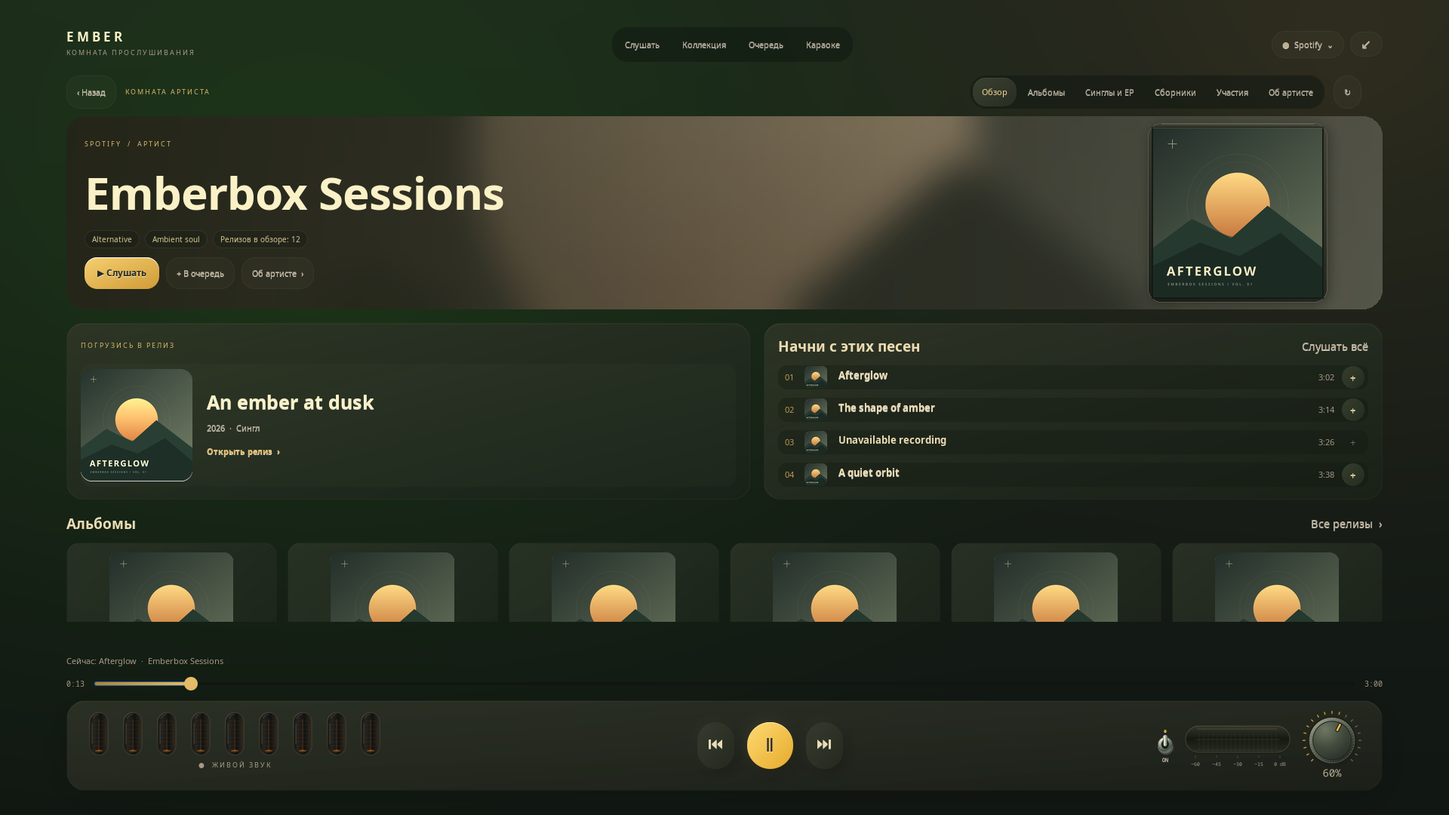
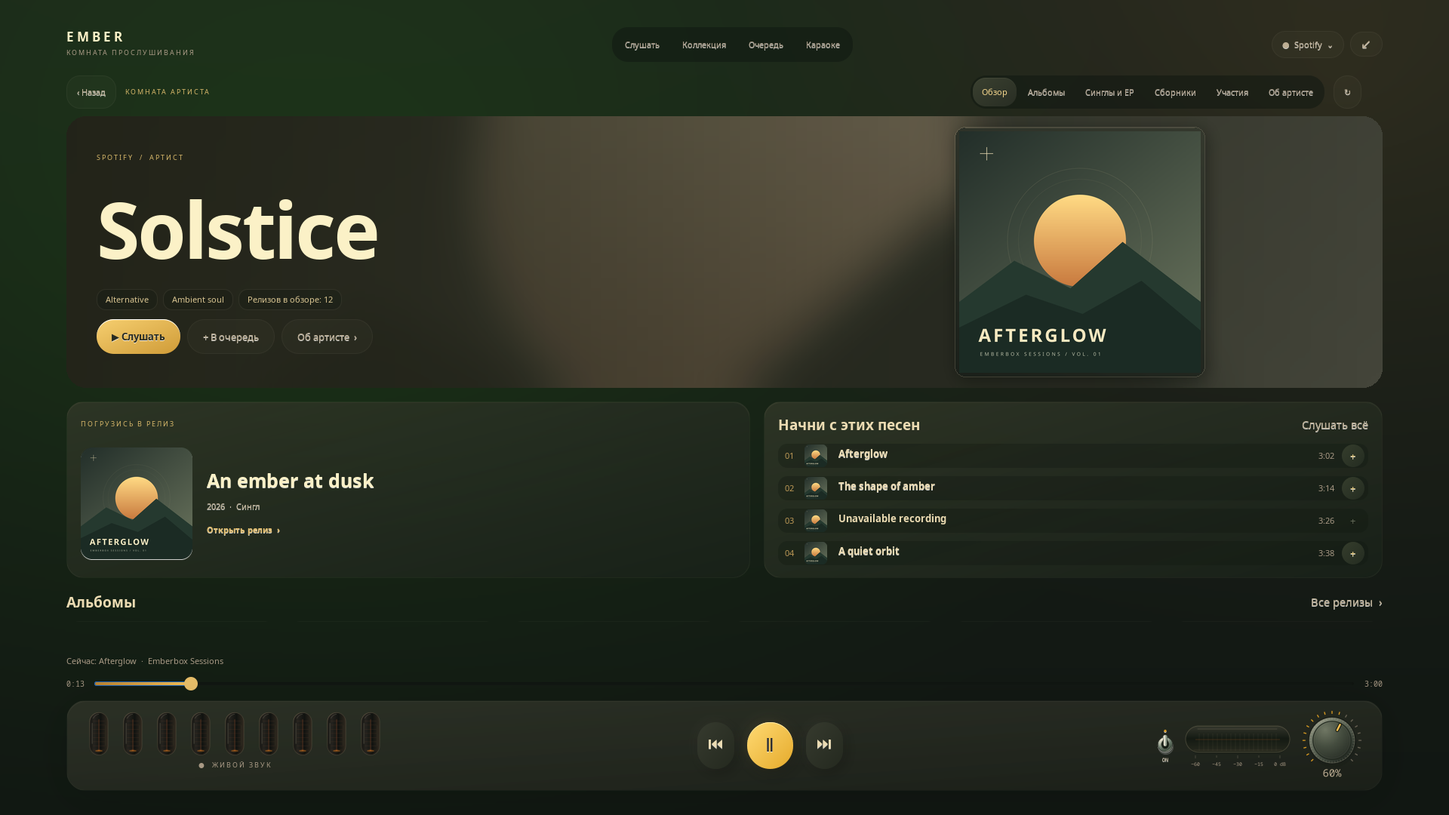
design: give artist portraits a large gallery masthead and poster typography

diff --git a/tests/artist_smoke.py b/tests/artist_smoke.py
@@ -9,6 +9,7 @@ from unittest.mock import patch
 import fullscreen_smoke as f
 import fullscreen
 from source_picker import text
+from artist_header import portrait_rect
 from gi.repository import Gdk,Gtk
 
 tracks=[{'id':str(i),'uri':'spotify:track:'+str(i),'title':name,'artist':'Emberbox Sessions',
@@ -37,7 +38,8 @@ def load(source,category,term='',collection=None,offset=0):
         if ref.get('id')!='SPARSE':
             sections.extend(({'id':'top-songs','items':tracks[:4]}, {'id':'albums','items':albums},
                              {'id':'singles','items':singles}, {'id':'compilations','items':compilations}))
-        return {'artist':dict(profile,id=ref.get('id','A')),'sections':copy.deepcopy(sections)}
+        return {'artist':dict(profile,id=ref.get('id','A'),name='Solstice' if ref.get('id')=='SHORT' else profile['name']),
+                'sections':copy.deepcopy(sections)}
     if category=='artist-section':return {'items':copy.deepcopy(albums[:2] if offset else albums),'next':None if offset else 24}
     if category=='release':return {'release':dict(albums[0],id=ref['id'],artist='Emberbox Sessions',
                 description='Original demonstration liner notes.\n\nA small collection about warmth, memory and evenings that last a little longer.',
@@ -82,8 +84,11 @@ def overview_first_screen(view,stage):
     assert len([value for _,value in view.album_buttons if value['id']=='latest-1'])==1
     assert any(visible_in_scroll(play,view,stage) for play,_,_ in view.song_buttons),'Popular songs must appear immediately'
     assert len({value['id'] for _,value in view.album_buttons})>=7,'Overview must expose the catalogue beyond one latest release'
-    assert any(visible_in_scroll(b,view,stage) for b,value in view.album_buttons if value['id'] in {a['id'] for a in albums}),\
-        'A discography shelf must be discoverable on the first screen'
+    assert view.shelf_widgets,'The overview must retain its real discography shelves'
+    heading=view.shelf_widgets[0].get_children()[0]
+    _,hy,_,hh=rectangle(heading,stage.window);_,scroll_y,_,scroll_h=rectangle(view.scroll,stage.window)
+    assert heading.get_mapped() and hy>=max(fy+fh,sy+sh) and hy>=scroll_y and hy+hh<=scroll_y+scroll_h+1,\
+        'The first discography heading must fit fully below the useful music panels, without being clipped at the viewport edge'
 
 
 host=f.FixtureHost()
@@ -110,6 +115,19 @@ with patch('urllib.request.urlopen',side_effect=AssertionError('Unexpected netwo
         for b,_ in view.album_buttons:
             assert b.get_accessible().get_name(),'Every release must have an accessible name'
         shot(stage,'artist')
+        # An eight-letter artist uses the largest poster typography in one line.
+        view.set_reference({'id':'SHORT','name':'Solstice'});view.load('artist',view.reference)
+        wait(lambda:view.profile is not None and view.profile['id']=='SHORT')
+        banner=view.hero_banner
+        title=next(child for box in banner.content.get_children() for child in box.get_children()
+                   if isinstance(child,Gtk.Label) and child.get_text()=='Solstice')
+        assert title.get_style_context().has_class('stage-artist-display')
+        assert title.get_layout().get_line_count()==1,'The largest display name must fit without accidental wrapping'
+        bx,by,bw,bh=rectangle(banner,stage.window);tx,ty,tw,th=rectangle(title,stage.window)
+        assert tx>=bx and ty>=by and tx+tw<=bx+bw-banner.photo_area_width+2 and ty+th<=by+bh+1,\
+            'The large display name must fit inside the reading area, clear of the complete photograph'
+        overview_first_screen(view,stage)
+        shot(stage,'artist-display')
         # A source may really have only one release. Show its story, never cloned cards.
         view.set_reference({'id':'SPARSE','name':profile['name']});view.load('artist',view.reference)
         wait(lambda:view.profile is not None and view.profile['id']=='SPARSE')
@@ -155,6 +173,10 @@ with patch('urllib.request.urlopen',side_effect=AssertionError('Unexpected netwo
             assert banner.photo_area_width>0,'Reserve the full portrait before painting the heading'
             assert cx+cw<=bx+bw-banner.photo_area_width+2,('Artist text must not overlap the complete photo',(width,height),(bx,by,bw,bh),(cx,cy,cw,ch),banner.photo_area_width)
             assert cy>=by and cy+ch<=by+bh+2,('The heading and controls must stay inside the masthead',(width,height),(bx,by,bw,bh),(cx,cy,cw,ch))
+            wait(lambda:banner.pixels is not None)
+            px,py,pw,ph=portrait_rect(banner.pixels[1],bw,bh)
+            assert ph>=(320 if width==1920 else 160),('The full artist photograph must be substantial',(width,height),(bw,bh),(px,py,pw,ph))
+            assert cx+cw<=bx+px and py>=0 and py+ph<=bh,('Artist text and actions must not cover the large photograph',(width,height),(cx,cy,cw,ch),(bx+px,by+py,pw,ph))
             adjustment=view.scroll.get_vadjustment()
             assert adjustment.get_upper()>adjustment.get_page_size(),'The complete artist catalogue must remain scrollable'
             adjustment.set_value(adjustment.get_upper()-adjustment.get_page_size());f.settle(.1)

diff --git a/src/artist_header.py b/src/artist_header.py
@@ -7,7 +7,15 @@ from gi.repository import Gtk,GdkPixbuf,GLib
 
 def portrait_slot(width,height):
     """Leave a stable reading area; the photograph fits entirely to its right."""
-    return max(48,min(round(width*.28),round(height*1.5)))
+    return max(48,round(width*(.46 if width>=1200 else .40)))
+
+
+def portrait_rect(source_size,width,height):
+    """Contain the whole photograph in a generous gallery area, not an avatar."""
+    slot=portrait_slot(width,height);inset=20
+    scale=min(max(1,slot-2*inset)/source_size[0],max(1,height-2*inset)/source_size[1])
+    pw,ph=max(1,round(source_size[0]*scale)),max(1,round(source_size[1]*scale))
+    return width-slot+(slot-pw)//2,(height-ph)//2,pw,ph
 
 
 def compose(pixels,width,height):
@@ -15,31 +23,28 @@ def compose(pixels,width,height):
     photo=Image.frombytes('RGBA' if alpha else 'RGB',size,raw,'raw','RGBA' if alpha else 'RGB',stride).convert('RGBA')
     backdrop=Image.new('RGBA',photo.size,(35,41,31,255));backdrop.alpha_composite(photo)
     backdrop=backdrop.convert('RGB')
-    base=ImageOps.fit(backdrop,(width,height),Image.Resampling.LANCZOS).filter(ImageFilter.GaussianBlur(24))
+    base=ImageOps.fit(backdrop,(width,height),Image.Resampling.LANCZOS).filter(ImageFilter.GaussianBlur(max(18,min(48,height*.085))))
     base=ImageEnhance.Color(base).enhance(.4).convert('RGBA')
-    shade=ImageOps.mirror(Image.linear_gradient('L').rotate(90)).resize((width,height)).point(lambda v:55+int(v*.71))
+    shade=ImageOps.mirror(Image.linear_gradient('L').rotate(90)).resize((width,height)).point(lambda v:120+int(v*.45))
     base=Image.composite(Image.new('RGBA',(width,height),(26,30,22,255)),base,shade)
-    warmth=Image.new('RGBA',(width,height),(178,118,34,14));base=Image.alpha_composite(base,warmth)
+    warmth=Image.new('RGBA',(width,height),(178,118,34,10));base=Image.alpha_composite(base,warmth)
     # The background is atmospheric; the actual photo is contained in full,
     # with no face crop, stretching, edge fade or text painted over it.
-    slot=portrait_slot(width,height)
-    portrait=ImageOps.contain(photo,(max(1,slot-32),max(1,height-32)),Image.Resampling.LANCZOS)
-    x=width-slot+(slot-portrait.width)//2;y=(height-portrait.height)//2
-    bounds=(x-7,y-7,x+portrait.width+6,y+portrait.height+6)
+    x,y,pw,ph=portrait_rect(photo.size,width,height)
+    portrait=photo.resize((pw,ph),Image.Resampling.LANCZOS)
+    bounds=(x-6,y-6,x+pw+5,y+ph+5)
     shadow=Image.new('RGBA',(width,height));ImageDraw.Draw(shadow).rounded_rectangle(
-        tuple(value+(2 if index%2==0 else 3) for index,value in enumerate(bounds)),18,fill=(5,10,6,95))
-    base=Image.alpha_composite(base,shadow.filter(ImageFilter.GaussianBlur(7)))
-    # Shallow, matte metal: a restrained bevel rather than a bright border.
+        tuple(value+(3 if index%2==0 else 4) for index,value in enumerate(bounds)),14,fill=(5,10,6,100))
+    base=Image.alpha_composite(base,shadow.filter(ImageFilter.GaussianBlur(10)))
+    # A narrow gallery mount and one light edge keep the photograph dominant.
     fw,fh=bounds[2]-bounds[0]+1,bounds[3]-bounds[1]+1
     ramp=Image.blend(Image.linear_gradient('L').resize((fw,fh)),
         ImageOps.mirror(Image.linear_gradient('L').rotate(90)).resize((fw,fh)),.25)
-    metal=ImageOps.colorize(ramp,(65,69,56),(25,30,24)).convert('RGBA')
-    bezel=Image.new('L',(fw,fh));ImageDraw.Draw(bezel).rounded_rectangle((0,0,fw-1,fh-1),18,fill=255);metal.putalpha(bezel)
+    metal=ImageOps.colorize(ramp,(53,57,46),(27,32,26)).convert('RGBA')
+    bezel=Image.new('L',(fw,fh));ImageDraw.Draw(bezel).rounded_rectangle((0,0,fw-1,fh-1),14,fill=255);metal.putalpha(bezel)
     frame=Image.new('RGBA',(width,height));frame.alpha_composite(metal,bounds[:2]);edge=ImageDraw.Draw(frame)
-    edge.rounded_rectangle(bounds,18,outline=(226,215,183,42),width=1)
-    edge.line((bounds[0]+18,bounds[1]+1,bounds[2]-18,bounds[1]+1),fill=(247,231,193,48))
-    edge.rectangle((x-2,y-2,x+portrait.width+1,y+portrait.height+1),outline=(9,14,9,180),width=2)
-    edge.line((x-1,y-1,x+portrait.width,y-1),fill=(243,229,193,25))
+    edge.rounded_rectangle(bounds,14,outline=(226,215,183,42),width=1)
+    edge.line((bounds[0]+14,bounds[1]+1,bounds[2]-14,bounds[1]+1),fill=(247,231,193,35))
     base=Image.alpha_composite(base,frame);base.alpha_composite(portrait,(x,y))
     mask=Image.new('L',(width,height));ImageDraw.Draw(mask).rounded_rectangle((0,0,width-1,height-1),26,fill=255)
     base.putalpha(mask)

diff --git a/src/artist_view.py b/src/artist_view.py
@@ -17,6 +17,13 @@ CSS=b'''
 .stage-artist-hero.stage-artist-banner-content { background-image: none; background-color: transparent; border: none; box-shadow: none; }
 .stage-artist-name { color: #fbf1c7; font-size: 60px; font-weight: bold; letter-spacing: -1.8px; }
 .stage-artist-name.stage-artist-long { font-size: 40px; letter-spacing: -1px; }
+.stage-artist-name.stage-artist-display { font-size: 104px; letter-spacing: -3.5px; }
+.stage-artist-name.stage-artist-display-medium { font-size: 88px; letter-spacing: -2.7px; }
+.stage-artist-name.stage-artist-display-long { font-size: 64px; letter-spacing: -1.8px; }
+.stage-artist-hero.stage-artist-banner-content { padding: 36px 40px; }
+.stage-artist-banner-content .stage-artist-chip { font-size: 11px; padding: 5px 11px; }
+.ember-stage .stage-artist-banner-content button.stage-quiet,
+.ember-stage .stage-artist-banner-content button.stage-accent { font-size: 13px; padding: 11px 20px; border-radius: 23px; }
 .stage-artist-kicker { color: #d4b568; font-size: 9px; letter-spacing: 2px; }
 .stage-artist-summary { color: #bdae93; font-size: 12px; }
 .stage-artist-prose { color: #d5c7a7; font-size: 15px; }
@@ -49,6 +56,17 @@ CSS=b'''
 .stage-artist-hero.stage-artist-mini { padding: 12px 16px; }
 .ember-stage .stage-artist-mini .stage-artist-name { font-size: 26px; }
 .ember-stage .stage-artist-mini button.stage-accent, .ember-stage .stage-artist-mini button.stage-quiet { padding: 6px 12px; min-height: 16px; }
+.ember-stage .small-screen .stage-artist-display,
+.ember-stage .small-screen .stage-artist-display-medium,
+.ember-stage .small-screen .stage-artist-display-long { font-size: 40px; letter-spacing: -1px; }
+.ember-stage .small-screen .stage-artist-banner-content { padding: 20px 24px; }
+.ember-stage .small-screen .stage-artist-banner-content button.stage-quiet,
+.ember-stage .small-screen .stage-artist-banner-content button.stage-accent { font-size: 11px; padding: 8px 13px; }
+.ember-stage .stage-artist-mini .stage-artist-display,
+.ember-stage .stage-artist-mini .stage-artist-display-medium,
+.ember-stage .stage-artist-mini .stage-artist-display-long { font-size: 34px; }
+.ember-stage .stage-artist-mini.stage-artist-banner-content { padding: 16px 20px; }
+.ember-stage .stage-artist-mini .stage-artist-chip { font-size: 10px; padding: 4px 8px; }
 '''
 
 NAMES_SECTION={
@@ -65,6 +83,10 @@ def paragraph(value,style='stage-artist-prose'):
     result.set_line_wrap_mode(Pango.WrapMode.WORD_CHAR);result.set_max_width_chars(82)
     result.set_selectable(True);result.set_hexpand(True)
     return result
+
+
+def masthead_height(height):
+    return 360 if height>=900 else 320 if height>=800 else 248 if height>=680 else 212
 
 
 class ArtistView(Gtk.Box):
@@ -274,6 +296,9 @@ class ArtistView(Gtk.Box):
         name=value.get('title') if release else value.get('name') or self.reference.get('name','')
         title=label(name,'stage-artist-name',28)
         if len(str(name))>28 or release:title.get_style_context().add_class('stage-artist-long')
+        if not release:
+            title.get_style_context().add_class('stage-artist-display-long' if len(str(name))>16 else
+                'stage-artist-display-medium' if len(str(name))>8 else 'stage-artist-display')
         title.set_line_wrap(True);title.set_lines(2);names.pack_start(title,False,False,0)
         meta=[]
         if release:
@@ -303,7 +328,7 @@ class ArtistView(Gtk.Box):
             self.artwork.load(image,value.get('image',''),self.portrait_size,24,high_quality=True)
             self.content.pack_start(shell,False,False,0)
         else:
-            height=152 if self.portrait_size<128 else 184 if self.height<800 else 220
+            height=masthead_height(self.height)
             if len(str(name))>28:height+=24
             banner=ArtistBanner(shell,value.get('image',''),self.banner_cache,height)
             self.hero_banner=banner
@@ -526,7 +551,7 @@ class ArtistView(Gtk.Box):
 
     def resize(self,width,height):
         self.wide=width>=1200;self.height=height;self.crumb.set_visible(self.wide)
-        size=(max(116,min(164,(width-160)//7-26)),88 if height<680 else 128 if height<800 else 164,self.wide)
+        size=(max(116,min(164,(width-160)//7-26)),88 if height<680 else 128 if height<800 else 164,self.wide,masthead_height(height))
         if self.size==size:return
         self.size=size;self.card_size,self.portrait_size=size[:2]
         if self.active:self.render()

diff --git a/tests/test_artist_header.py b/tests/test_artist_header.py
@@ -6,7 +6,7 @@ from PIL import Image,ImageDraw
 import numpy as np
 import gi
 gi.require_version('Gtk','3.0')
-from artist_header import compose
+from artist_header import compose,portrait_rect,portrait_slot
 
 class ArtistPortraits(unittest.TestCase):
     def test_all_four_photo_corners_survive_landscape_square_and_tall_sources(self):
@@ -17,7 +17,7 @@ class ArtistPortraits(unittest.TestCase):
             for bounds,color in zip(((0,0,bw,bh),(w-bw-1,0,w-1,bh),
                                       (0,h-bh-1,bw,h-1),(w-bw-1,h-bh-1,w-1,h-1)),colors):draw.rectangle(bounds,fill=color)
             pixels=(source.tobytes(),size,False,w*3)
-            for width,height in ((1744,220),(928,152)):
+            for width,height in ((1744,360),(1104,248),(928,212)):
                 with self.subTest(source=size,banner=(width,height)):
                     result=np.asarray(Image.frombytes('RGBA',(width,height),compose(pixels,width,height)))
                     corners=[]
@@ -27,11 +27,37 @@ class ArtistPortraits(unittest.TestCase):
                         corners.append((xs.min(),ys.min(),xs.max(),ys.max()))
                     left=min(c[0] for c in corners);right=max(c[2] for c in corners)
                     top=min(c[1] for c in corners);bottom=max(c[3] for c in corners)
-                    self.assertGreater(left,width*.65,'The clear photo must stay away from the reading area')
+                    self.assertGreaterEqual(left,width-portrait_slot(width,height)+8,
+                        'The complete photograph must remain inside its reserved bay')
                     self.assertGreater(top,7);self.assertLess(bottom,height-8)
                     self.assertAlmostEqual((right-left+1)/(bottom-top+1),w/h,delta=.07,
                         msg='The full photograph must not be stretched')
                     self.assertLess(corners[0][2],corners[1][0]);self.assertLess(corners[0][3],corners[2][1])
                     self.assertEqual(int(result[0,0,3]),0,'The outer banner retains rounded corners')
+                    px,py,pw,ph=portrait_rect(size,width,height)
+                    self.assertEqual((left,top,right-left+1,bottom-top+1),(px,py,pw,ph),
+                        'Painted photograph and text exclusion geometry must agree')
+                    if w==h:
+                        self.assertGreaterEqual(bottom-top+1,320 if width>=1200 else 160,
+                            'The artist photograph must be a substantial focal point, not a thumbnail')
+                    if w/h>=5 and width>=1200:
+                        self.assertGreaterEqual(right-left+1,600,
+                            'Wide photographs must use the generous photo bay instead of a height-limited thumbnail')
+
+    def test_portrait_bay_keeps_text_space_without_pushing_photos_to_the_outer_edge(self):
+        for width,height in ((1744,360),(1104,248),(928,212)):
+            with self.subTest(banner=(width,height)):
+                slot=portrait_slot(width,height)
+                self.assertGreaterEqual(width-slot,width*.5,'The heading and actions need their own half')
+                self.assertGreaterEqual(slot,width*.39,'Reserve a real photo bay rather than a narrow corner')
+                for size in ((640,640),(640,960),(960,640),(1200,200)):
+                    x,y,w,h=portrait_rect(size,width,height)
+                    self.assertGreater(x,width-slot)
+                    self.assertGreater(y,0)
+                    self.assertLess(x+w,width)
+                    self.assertLess(y+h,height)
+                    self.assertAlmostEqual(x+w/2,width-slot/2,delta=1,
+                        msg='The clear photograph must be centered in its bay')
+                    self.assertAlmostEqual(y+h/2,height/2,delta=1)
 
 if __name__=='__main__':unittest.main()

diff --git a/docs/ARTISTS.ru.md b/docs/ARTISTS.ru.md
@@ -11,17 +11,21 @@
 
 ## Тёплый портрет
 
-Справа — фотография артиста целиком в сдержанной матовой металлической рамке:
-тонкая фаска, тёплый блик и мягкая тень. Вертикальные, горизонтальные
-и квадратные снимки сохраняют исходные пропорции и все края. Позади —
-увеличенная, мягко размытая копия того же фото в тёплых оттенках. Чёткий снимок
-не растягивается и не растворяется в фоне.
+Правая половина шапки отведена крупной фотографии целиком. При 1920×1080 шапка
+имеет высоту 360px, а квадратный снимок — 320px; широкий снимок свободно
+занимает область по ширине. Короткое имя исполнителя оформлено плакатным
+кеглем, длинные имена адаптируются. На небольших экранах шапка становится ниже.
+
+У рамки узкий матовый кант, одна тёплая световая грань и мягкая тень.
+Вертикальные, горизонтальные и квадратные снимки сохраняют все края
+и исходные пропорции. Позади — увеличенная, мягко размытая копия того же фото.
+Чёткий снимок не растягивается и не растворяется в фоне.
 
 У кремового имени, плашек жанров и янтарных кнопок своя область, без наложения
-на фотографию. При переносе заголовка шапка становится выше. Если фото нет,
-остаётся спокойный градиент. Загрузка и обработка идут вне GTK; фотографии
-с исходными пропорциями отделены в кэше от квадратных обложек, а готовые шапки
-хранятся в небольшом ограниченном кэше памяти.
+на фотографию. Сразу под шапкой — релиз и популярные песни; ниже доступна
+дискография. Если фото нет, остаётся спокойный градиент. Загрузка и обработка
+идут вне GTK; фотографии с исходными пропорциями отделены в кэше от квадратных
+обложек, а готовые шапки хранятся в небольшом ограниченном кэше памяти.
 
 **Обзор**, **Все релизы** (Apple Music), **Альбомы**, **Синглы и EP**, **Сборники**, **Участия** и **Об артисте**
 объединены с компактной панелью над прокруткой. В Обзоре горизонтальный релиз

diff --git a/docs/ARTISTS.md b/docs/ARTISTS.md
@@ -11,17 +11,23 @@ not start a track.
 
 ## A warmer portrait
 
-The artist's complete photograph sits inside a restrained matte metal frame on
-the right: a shallow bevel, a fine warm highlight and a soft shadow. Portrait,
-landscape and square photos keep their original proportions and all source
-edges. A larger, softly blurred copy of the same photo supplies the warm
-background; the clear photograph is never stretched or faded away.
+A large, complete photograph anchors the right half of an editorial masthead.
+On a 1920×1080 display the hero is 360px tall and a square photograph is 320px,
+with a generous surrounding photo bay; wide photos can use its full width.
+Short artist names take a poster-scale headline, while longer names adapt.
+The hero becomes shorter on smaller displays.
+
+The photo mount uses a narrow matte edge, one warm hairline and a soft shadow.
+Portrait, landscape and square photos keep all source edges and proportions.
+A larger, softly blurred copy of the same photo supplies a restrained backdrop.
+The clear photograph is never stretched or faded away.
 
 The cream name, genre badges and amber controls have their own reading area,
-so they do not cover the photograph. The masthead grows when the heading needs
-more room. Missing photos retain a quiet gradient fallback. Photo loading and
-composition run away from GTK; original-aspect photos use a separate thumbnail
-cache entry and completed banners use a small bounded memory cache.
+so they do not cover the photograph. Featured music and popular songs follow
+the masthead; the discography stays available below. Missing photos retain a
+quiet gradient fallback. Photo loading and composition run away from GTK;
+original-aspect photos use a separate thumbnail cache entry and completed
+banners use a small bounded memory cache.
 
 **Overview**, **All releases** (Apple Music), **Albums**, **Singles & EPs**, **Compilations**, **Appears on** and
 **About** share the compact toolbar above the scroll area. Overview pairs a

diff --git a/README.ru.md b/README.ru.md
@@ -108,7 +108,7 @@ cd emberbox-audio
 
 Перетаскивай виджет за верхнюю полоску или обложку. Кнопка **Mini** включает компактный режим. Крути громкость колесом или перетаскиванием, с Shift — точнее. Металлический тумблер выключает звук и сохраняет выбранную громкость.
 
-Это ранний выпуск **v0.12.4**. Личные подборки зависят от внутренних интерфейсов клиента Spotify и могут потребовать обновления интеграции после обновления клиента. Интерфейс публичной версии в основном на английском; названия подборок приходят из Spotify.
+Это ранний выпуск **v0.12.5**. Личные подборки зависят от внутренних интерфейсов клиента Spotify и могут потребовать обновления интеграции после обновления клиента. Интерфейс публичной версии в основном на английском; названия подборок приходят из Spotify.
 
 [English README](README.md) · [Установка и удаление](docs/INSTALL.ru.md) · [Второй плеер](https://github.com/BlackSnaker/emberbox-video) · [MIT](LICENSE)
 

diff --git a/CHANGELOG.ru.md b/CHANGELOG.ru.md
@@ -2,6 +2,12 @@
 
 [English](CHANGELOG.md) · **Русский**
 
+## 0.12.5 — 2026-10-23
+
+- Пересобрать шапку артиста: крупная фотография 320px в шапке 360px на большом экране, просторная область справа и плакатное имя исполнителя. Адаптировать высоту к небольшим экранам.
+- Упростить рамку до узкого матового канта и тонкой световой грани, смягчить тень. Сохранить фото целиком и размытый фон; отвести имени и действиям свою половину.
+- Проверить реальный размер фото, все края исходника, широкие снимки, короткие и длинные имена, полезную музыку на первом экране, три размера GTK и оба языка. Обновить превью.
+
 ## 0.12.4 — 2026-10-23
 
 - Показывать фотографию артиста целиком с исходными пропорциями в матовой металлической рамке с тонкой фаской. Позади — мягко размытая и тонированная копия того же снимка.

diff --git a/CHANGELOG.md b/CHANGELOG.md
@@ -2,6 +2,12 @@
 
 **English** · [Русский](CHANGELOG.ru.md)
 
+## 0.12.5 — 2026-10-23
+
+- Recompose the artist masthead as a large photographic gallery: a 320px square portrait in a 360px desktop hero, a generous right photo bay and a poster-scale artist name. Adapt the hero to shorter displays.
+- Simplify the photo mount to a narrow matte edge and one hairline, with a softer shadow; retain the complete image and its blurred backdrop. Keep the heading and playback actions in their own half.
+- Verify actual portrait size, full source edges, wide photos, short/long artist names, visible first-screen music, three GTK sizes and both languages; refresh the previews.
+
 ## 0.12.4 — 2026-10-23
 
 - Show the complete artist photograph at its original aspect ratio inside a shallow matte metal frame, over a softly blurred, tinted copy of the same photo.
